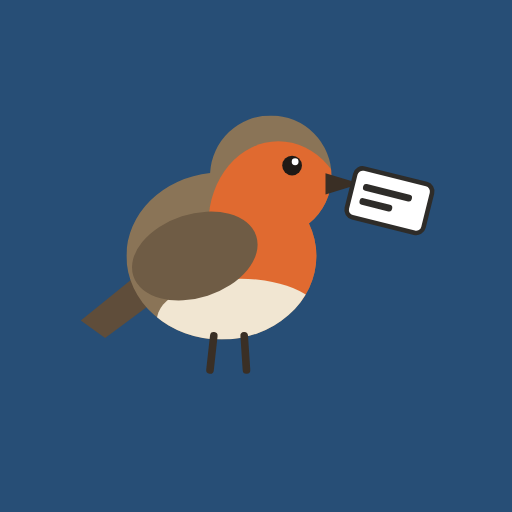
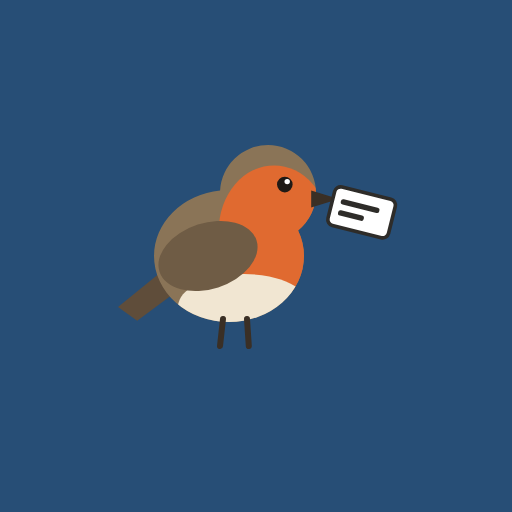
Icona ritagliabile: pettirosso più piccolo per il taglio di Android
Su GrapheneOS etichetta e coda venivano tagliate: Android mostra solo il
66 % centrale dell'icona adattiva, con zona sicura del 61 %. Pettirosso
ridotto al 60 % e test della zona sicura portato a raggio 30,5 %.

Changed region(s): [[0.1562, 0.2188, 0.8438, 0.75]]

diff --git a/tests/e2e/icons.spec.ts b/tests/e2e/icons.spec.ts
@@ -51,7 +51,7 @@ test('manifest: nome, apertura nel browser, icone normali e ritagliabili', async
   }
 });
 
-test('icona ritagliabile: fuori dalla zona sicura (raggio 40 %) c’è solo il fondo', async ({ page }) => {
+test('icona ritagliabile: fuori dalla zona sicura di Android (raggio 30,5 %) c’è solo il fondo', async ({ page }) => {
   await page.goto('/');
   const outside = await page.evaluate(async () => {
     const img = new Image();
@@ -62,7 +62,8 @@ test('icona ritagliabile: fuori dalla zona sicura (raggio 40 %) c’è solo il f
     ctx.drawImage(img, 0, 0);
     const { data } = ctx.getImageData(0, 0, n, n);
     const bg = [0x27, 0x4e, 0x76];
-    const safe = n * 0.4;
+    // Android mostra i 72dp centrali di 108dp; la zona sicura è un cerchio di 66dp (61 %).
+    const safe = n * 0.305;
     let count = 0;
     for (let y = 0; y < n; y++)
       for (let x = 0; x < n; x++) {
